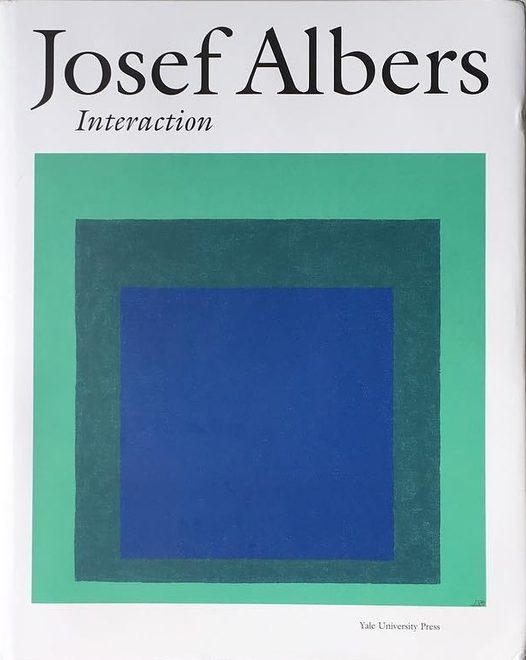
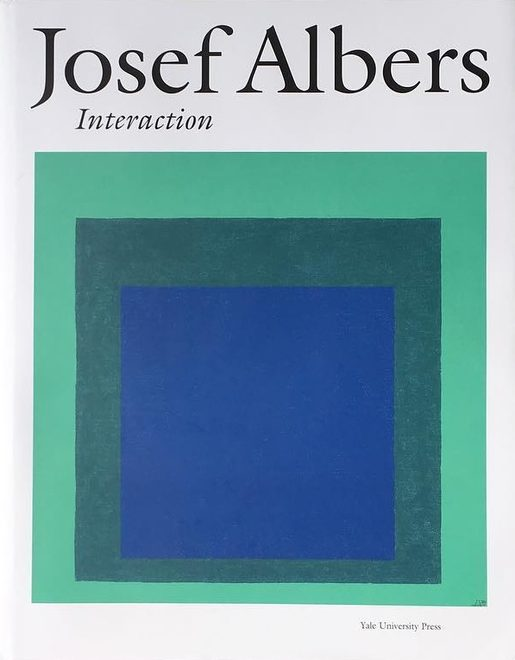
Trim the dark edge line from the Albers Interaction cover
Claude-Session: https://claude.ai/code/session_01My32gqNAccyKupmnXSsdjE

diff --git a/en/index.html b/en/index.html
@@ -199,7 +199,7 @@
       <a class="cover-link" href="https://hatjecantz.com/products/83946-cezanne" target="_blank" rel="noopener"><img src="../images/covers/band1-03.jpg" width="562" height="660" alt="Cézanne — Fondation Beyeler / Hatje Cantz" decoding="async"></a>
       <a class="cover-link" href="https://musikaesthetik.kug.ac.at/news-detailansicht/neuerscheinung-text-as-source-and-material-in-contemporary-music-theatre" target="_blank" rel="noopener"><img src="../images/covers/band1-04.jpg" width="527" height="660" alt="Text as Source and Material in Contemporary Music Theatre, ed. Christa Brüstle — Universal Edition" decoding="async"></a>
       <a class="cover-link" href="https://shop.fondationbeyeler.ch/en/artikel/jeff-wall-english-35085/35085" target="_blank" rel="noopener"><img src="../images/covers/band1-05.jpg" width="482" height="600" alt="Jeff Wall — Fondation Beyeler" decoding="async"></a>
-      <a class="cover-link" href="https://www.davidzwirnerbooks.com/product/josef-albers-interaction" target="_blank" rel="noopener"><img src="../images/covers/band1-06.jpg" width="526" height="660" alt="Josef Albers, Interaction — Yale University Press" decoding="async"></a>
+      <a class="cover-link" href="https://www.davidzwirnerbooks.com/product/josef-albers-interaction" target="_blank" rel="noopener"><img src="../images/covers/band1-06.jpg" width="515" height="660" alt="Josef Albers, Interaction — Yale University Press" decoding="async"></a>
       <a class="cover-link" href="https://www.journals.uchicago.edu/doi/abs/10.1086/709461" target="_blank" rel="noopener"><img src="../images/covers/band1-07.jpg" width="522" height="660" alt="RES: Anthropology and Aesthetics 73/74 — University of Chicago Press" decoding="async"></a>
       <a class="cover-link" href="https://www.kulturverlag-kadmos.de/programm/details/unavailable" target="_blank" rel="noopener"><img src="../images/covers/band1-08.jpg" width="433" height="660" alt="Unavailable: The Joy of Not Responding — Kadmos" decoding="async"></a>
       <a class="cover-link" href="https://hatjecantz.com/products/64174-josef-albers" target="_blank" rel="noopener"><img src="../images/covers/band1-09.jpg" width="486" height="660" alt="Josef Albers: Homage to the Square 1950–1976 — Hatje Cantz" decoding="async"></a>

diff --git a/index.html b/index.html
@@ -200,7 +200,7 @@
       <a class="cover-link" href="https://hatjecantz.com/products/83946-cezanne" target="_blank" rel="noopener"><img src="images/covers/band1-03.jpg" width="562" height="660" alt="Cézanne — Fondation Beyeler / Hatje Cantz" decoding="async"></a>
       <a class="cover-link" href="https://musikaesthetik.kug.ac.at/news-detailansicht/neuerscheinung-text-as-source-and-material-in-contemporary-music-theatre" target="_blank" rel="noopener"><img src="images/covers/band1-04.jpg" width="527" height="660" alt="Text as Source and Material in Contemporary Music Theatre, ed. Christa Brüstle — Universal Edition" decoding="async"></a>
       <a class="cover-link" href="https://shop.fondationbeyeler.ch/en/artikel/jeff-wall-english-35085/35085" target="_blank" rel="noopener"><img src="images/covers/band1-05.jpg" width="482" height="600" alt="Jeff Wall — Fondation Beyeler" decoding="async"></a>
-      <a class="cover-link" href="https://www.davidzwirnerbooks.com/product/josef-albers-interaction" target="_blank" rel="noopener"><img src="images/covers/band1-06.jpg" width="526" height="660" alt="Josef Albers, Interaction — Yale University Press" decoding="async"></a>
+      <a class="cover-link" href="https://www.davidzwirnerbooks.com/product/josef-albers-interaction" target="_blank" rel="noopener"><img src="images/covers/band1-06.jpg" width="515" height="660" alt="Josef Albers, Interaction — Yale University Press" decoding="async"></a>
       <a class="cover-link" href="https://www.journals.uchicago.edu/doi/abs/10.1086/709461" target="_blank" rel="noopener"><img src="images/covers/band1-07.jpg" width="522" height="660" alt="RES: Anthropology and Aesthetics 73/74 — University of Chicago Press" decoding="async"></a>
       <a class="cover-link" href="https://www.kulturverlag-kadmos.de/programm/details/unavailable" target="_blank" rel="noopener"><img src="images/covers/band1-08.jpg" width="433" height="660" alt="Unavailable: The Joy of Not Responding — Kadmos" decoding="async"></a>
       <a class="cover-link" href="https://hatjecantz.com/products/64174-josef-albers" target="_blank" rel="noopener"><img src="images/covers/band1-09.jpg" width="486" height="660" alt="Josef Albers: Homage to the Square 1950–1976 — Hatje Cantz" decoding="async"></a>
